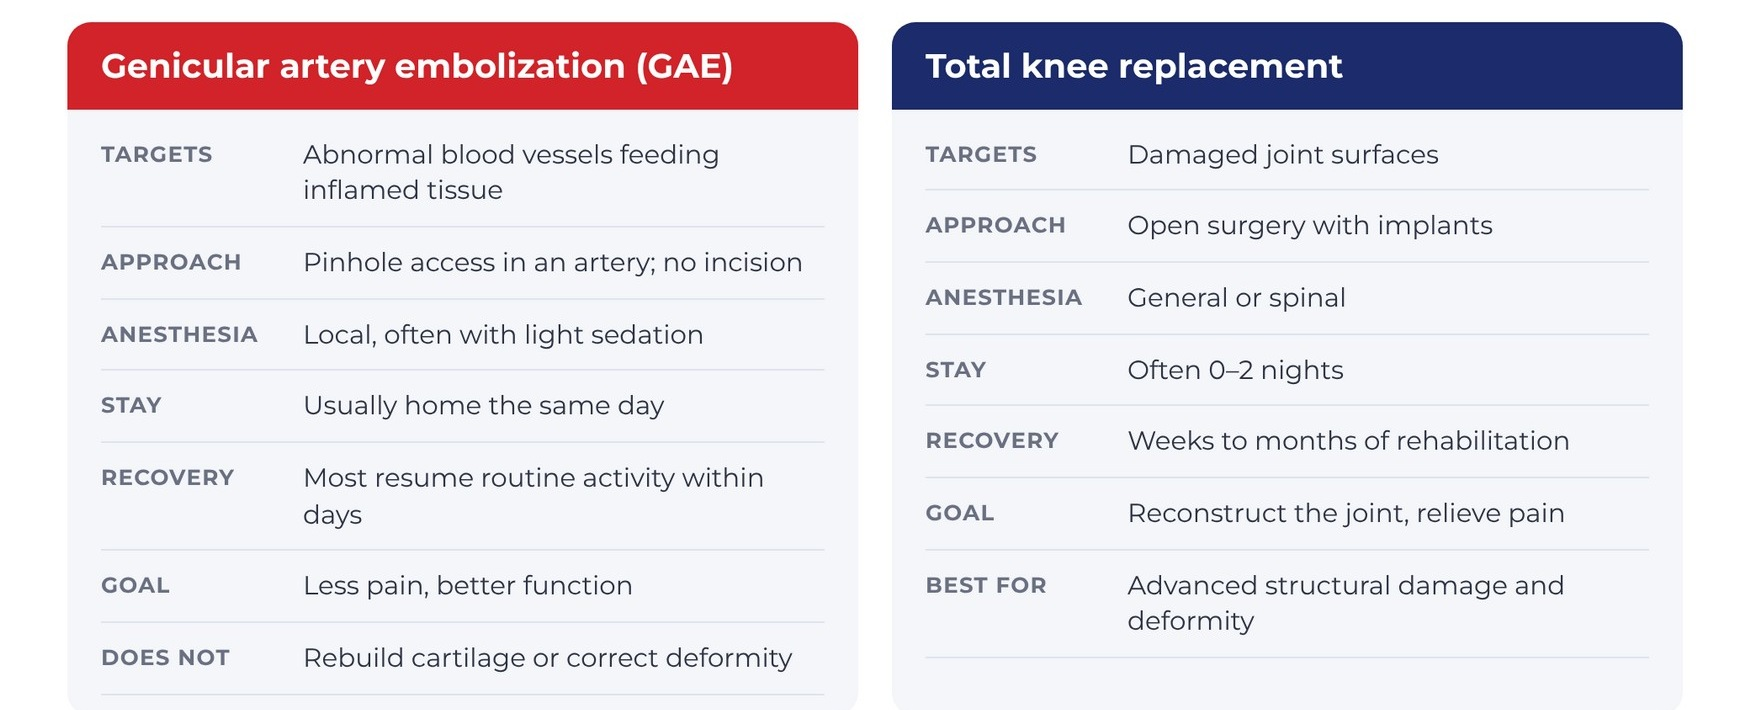
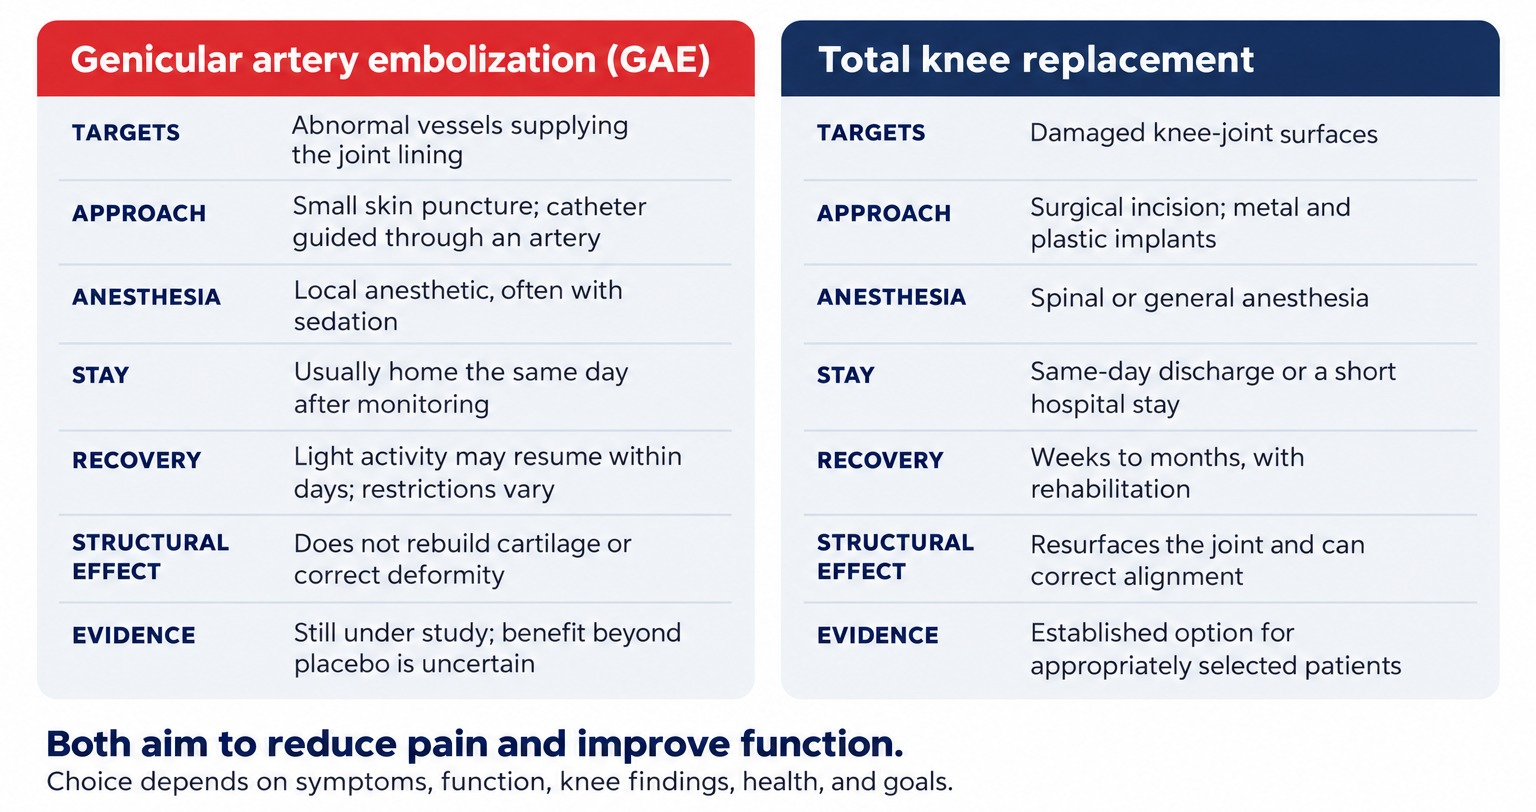
Flip J16a: new GAE vs knee replacement illustration
Claude-Session: https://claude.ai/code/session_011FeJdRfmDCgTZcMtNMgwbg

diff --git a/js/templates.js b/js/templates.js
@@ -799,7 +799,7 @@ window.AJPVC_TEMPLATES = [
     "label": "J16a · GAE and Knee Replacement Are Different Tools (patient side)",
     "w": 1056,
     "h": 816,
-    "html": "<div style=\"width: 1056px; height: 816px; box-sizing: border-box; background: #FFFEFB; color: #1B2440; font-family: 'Public Sans', sans-serif; display: flex; flex-direction: column; padding: 34px 44px 26px; gap: 20px\">\n<div style=\"display: flex; justify-content: space-between; align-items: flex-end; gap: 24px; border-bottom: 5px solid #C8231E; padding-bottom: 14px\">\n<div style=\"display: flex; flex-direction: column; gap: 4px\"><p style=\"margin: 0; font-family: 'Montserrat', sans-serif; font-weight: 700; font-size: 15px; letter-spacing: 3px; text-transform: uppercase; color: #C8231E\">Joint pain</p>\n<h1 style=\"margin: 0; font-family: 'Montserrat', sans-serif; font-weight: 800; font-size: 44px; line-height: 1.05; color: #16306E\">GAE and Knee Replacement Are Different Tools</h1></div>\n<div style=\"display: flex; align-items: center; gap: 14px\"><img src=\"assets/logo-hvlc.png\" alt=\"Heart Vascular &amp; Leg Center logo\" style=\"height: 34px; width: 78px; object-fit: contain; object-position: left center\"><span style=\"width: 1px; height: 27px; background: #E2DED4\"></span><img src=\"assets/logo-long-nodivision.png\" alt=\"Advanced Joint Pain &amp; Vascular Center logo\" style=\"height: 34px; width: 129px; object-fit: contain; object-position: left center\"></div></div>\n<main style=\"flex: 1; min-height: 0; display: flex; flex-direction: column; gap: 16px\"><div style=\"flex: 1; min-height: 0; display: flex; flex-direction: column; gap: 10px\"><div style=\"flex: 1; min-height: 0; min-width: 0; background: #FFFFFF; border-radius: 18px; overflow: hidden; display: flex\"><img src=\"assets/book-gae_vs_tkr.jpg\" alt=\"Side-by-side comparison of genicular artery embolization and total knee replacement\" style=\"width: 100%; height: 100%; object-fit: contain; object-position: 50% 50%; display: block\"></div></div><div style=\"display: flex; gap: 24px\"><div style=\"flex: 1; min-width: 0; display: flex; gap: 12px; align-items: flex-start; border-top: 4px solid #C8231E; padding-top: 12px\"><p style=\"margin: 0; font-size: 22px; line-height: 1.32; color: #1B2440\">GAE treats painful blood vessels through a pinhole in an artery.</p></div><div style=\"flex: 1; min-width: 0; display: flex; gap: 12px; align-items: flex-start; border-top: 4px solid #C8231E; padding-top: 12px\"><p style=\"margin: 0; font-size: 22px; line-height: 1.32; color: #1B2440\">Knee replacement swaps damaged joint surfaces using open surgery.</p></div><div style=\"flex: 1; min-width: 0; display: flex; gap: 12px; align-items: flex-start; border-top: 4px solid #C8231E; padding-top: 12px\"><p style=\"margin: 0; font-size: 22px; line-height: 1.32; color: #1B2440\">GAE does not rebuild cartilage or straighten a crooked knee.</p></div></div></main></div>"
+    "html": "<div style=\"width: 1056px; height: 816px; box-sizing: border-box; background: #FFFEFB; color: #1B2440; font-family: 'Public Sans', sans-serif; display: flex; flex-direction: column; padding: 34px 44px 26px; gap: 20px\">\n<div style=\"display: flex; justify-content: space-between; align-items: flex-end; gap: 24px; border-bottom: 5px solid #C8231E; padding-bottom: 14px\">\n<div style=\"display: flex; flex-direction: column; gap: 4px\"><p style=\"margin: 0; font-family: 'Montserrat', sans-serif; font-weight: 700; font-size: 15px; letter-spacing: 3px; text-transform: uppercase; color: #C8231E\">Joint pain</p>\n<h1 style=\"margin: 0; font-family: 'Montserrat', sans-serif; font-weight: 800; font-size: 44px; line-height: 1.05; color: #16306E\">GAE and Knee Replacement Are Different Tools</h1></div>\n<div style=\"display: flex; align-items: center; gap: 14px\"><img src=\"assets/logo-hvlc.png\" alt=\"Heart Vascular &amp; Leg Center logo\" style=\"height: 34px; width: 78px; object-fit: contain; object-position: left center\"><span style=\"width: 1px; height: 27px; background: #E2DED4\"></span><img src=\"assets/logo-long-nodivision.png\" alt=\"Advanced Joint Pain &amp; Vascular Center logo\" style=\"height: 34px; width: 129px; object-fit: contain; object-position: left center\"></div></div>\n<main style=\"flex: 1; min-height: 0; display: flex; flex-direction: column; gap: 16px\"><div style=\"flex: 1; min-height: 0; display: flex; flex-direction: column; gap: 10px\"><div style=\"flex: 1; min-height: 0; min-width: 0; background: #FFFFFF; border-radius: 18px; overflow: hidden; display: flex\"><img src=\"assets/book-gae_vs_tkr.jpg\" alt=\"Side-by-side table comparing genicular artery embolization and total knee replacement by target, approach, anesthesia, stay, recovery, structural effect and evidence\" style=\"width: 100%; height: 100%; object-fit: contain; object-position: 50% 50%; display: block\"></div></div><div style=\"display: flex; gap: 24px\"><div style=\"flex: 1; min-width: 0; display: flex; gap: 12px; align-items: flex-start; border-top: 4px solid #C8231E; padding-top: 12px\"><p style=\"margin: 0; font-size: 22px; line-height: 1.32; color: #1B2440\">GAE treats painful blood vessels through a pinhole in an artery.</p></div><div style=\"flex: 1; min-width: 0; display: flex; gap: 12px; align-items: flex-start; border-top: 4px solid #C8231E; padding-top: 12px\"><p style=\"margin: 0; font-size: 22px; line-height: 1.32; color: #1B2440\">Knee replacement swaps damaged joint surfaces using open surgery.</p></div><div style=\"flex: 1; min-width: 0; display: flex; gap: 12px; align-items: flex-start; border-top: 4px solid #C8231E; padding-top: 12px\"><p style=\"margin: 0; font-size: 22px; line-height: 1.32; color: #1B2440\">GAE does not rebuild cartilage or straighten a crooked knee.</p></div></div></main></div>"
    },
    {
     "label": "J16b · GAE and Knee Replacement Are Different Tools (provider side)",

diff --git a/source/FlipJ16VsReplacement.dc.html b/source/FlipJ16VsReplacement.dc.html
@@ -18,7 +18,7 @@ body{margin:0}
 <div style="display: flex; flex-direction: column; gap: 4px"><p style="margin: 0; font-family: 'Montserrat', sans-serif; font-weight: 700; font-size: 15px; letter-spacing: 3px; text-transform: uppercase; color: #C8231E">Joint pain</p>
 <h1 style="margin: 0; font-family: 'Montserrat', sans-serif; font-weight: 800; font-size: 44px; line-height: 1.05; color: #16306E">GAE and Knee Replacement Are Different Tools</h1></div>
 <div style="display: flex; align-items: center; gap: 14px"><img src="/_blob/1e4ce51a5c3cb793b6317890e43e495e" alt="Heart Vascular &amp; Leg Center logo" style="height: 34px; width: 78px; object-fit: contain; object-position: left center"><span style="width: 1px; height: 27px; background: #E2DED4"></span><img src="/_blob/48c0202744b17fe1f033a36586de7a92" alt="Advanced Joint Pain &amp; Vascular Center logo" style="height: 34px; width: 129px; object-fit: contain; object-position: left center"></div></div>
-<main style="flex: 1; min-height: 0; display: flex; flex-direction: column; gap: 16px"><div style="flex: 1; min-height: 0; display: flex; flex-direction: column; gap: 10px"><div style="flex: 1; min-height: 0; min-width: 0; background: #FFFFFF; border-radius: 18px; overflow: hidden; display: flex"><img src="/_blob/f337aff334c845346a50ac37cdad7ac7" alt="Side-by-side comparison of genicular artery embolization and total knee replacement" style="width: 100%; height: 100%; object-fit: contain; object-position: 50% 50%; display: block"></div></div><div style="display: flex; gap: 24px"><div style="flex: 1; min-width: 0; display: flex; gap: 12px; align-items: flex-start; border-top: 4px solid #C8231E; padding-top: 12px"><p style="margin: 0; font-size: 22px; line-height: 1.32; color: #1B2440">GAE treats painful blood vessels through a pinhole in an artery.</p></div><div style="flex: 1; min-width: 0; display: flex; gap: 12px; align-items: flex-start; border-top: 4px solid #C8231E; padding-top: 12px"><p style="margin: 0; font-size: 22px; line-height: 1.32; color: #1B2440">Knee replacement swaps damaged joint surfaces using open surgery.</p></div><div style="flex: 1; min-width: 0; display: flex; gap: 12px; align-items: flex-start; border-top: 4px solid #C8231E; padding-top: 12px"><p style="margin: 0; font-size: 22px; line-height: 1.32; color: #1B2440">GAE does not rebuild cartilage or straighten a crooked knee.</p></div></div></main></div>
+<main style="flex: 1; min-height: 0; display: flex; flex-direction: column; gap: 16px"><div style="flex: 1; min-height: 0; display: flex; flex-direction: column; gap: 10px"><div style="flex: 1; min-height: 0; min-width: 0; background: #FFFFFF; border-radius: 18px; overflow: hidden; display: flex"><img src="/_blob/1cad9a3d0b608e14a29b7d199cb0575a" alt="Side-by-side table comparing genicular artery embolization and total knee replacement by target, approach, anesthesia, stay, recovery, structural effect and evidence" style="width: 100%; height: 100%; object-fit: contain; object-position: 50% 50%; display: block"></div></div><div style="display: flex; gap: 24px"><div style="flex: 1; min-width: 0; display: flex; gap: 12px; align-items: flex-start; border-top: 4px solid #C8231E; padding-top: 12px"><p style="margin: 0; font-size: 22px; line-height: 1.32; color: #1B2440">GAE treats painful blood vessels through a pinhole in an artery.</p></div><div style="flex: 1; min-width: 0; display: flex; gap: 12px; align-items: flex-start; border-top: 4px solid #C8231E; padding-top: 12px"><p style="margin: 0; font-size: 22px; line-height: 1.32; color: #1B2440">Knee replacement swaps damaged joint surfaces using open surgery.</p></div><div style="flex: 1; min-width: 0; display: flex; gap: 12px; align-items: flex-start; border-top: 4px solid #C8231E; padding-top: 12px"><p style="margin: 0; font-size: 22px; line-height: 1.32; color: #1B2440">GAE does not rebuild cartilage or straighten a crooked knee.</p></div></div></main></div>
 </x-dc>
 <script type="text/x-dc" data-dc-script data-props='{"$preview":{"width":1056,"height":816}}'>
 class Component extends DCLogic {
